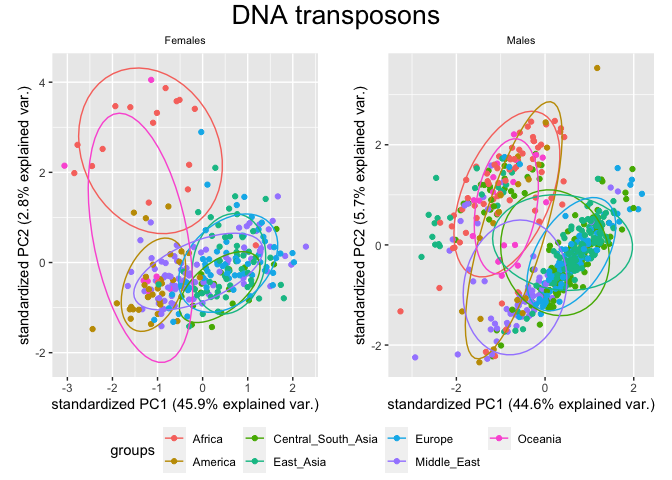
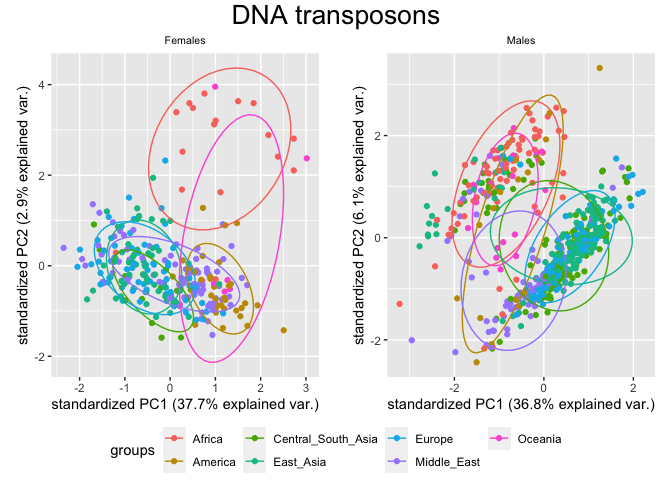
Investigation 2.0
More about GC bias
Fixed PCA in mq10HGDP

diff --git a/documentation/other-documentation/investigation.md b/documentation/other-documentation/investigation.md
@@ -19,6 +19,10 @@ library(tidyverse)
     ## ✖ dplyr::filter() masks stats::filter()
     ## ✖ dplyr::lag()    masks stats::lag()
 
+``` r
+library(cowplot)
+```
+
 ## Check the amount of unmapped reads in both the datasets
 
 We expect the amount of unmapped reads in the two datasets to be
@@ -85,6 +89,19 @@ HGDP<-read_delim("/Volumes/Temp1/rpianezza/TE/summary-HGDP/USEME_HGDP_complete_r
 ``` r
 names(HGDP)<-c("ID","pop","sex","country","type","familyname","length","reads","copynumber","batch")
 
+SGDP <- read_tsv("/Volumes/Temp2/rpianezza/SGDP/summary/USEME_SGDP_cutoff")
+```
+
+    ## Rows: 470028 Columns: 10
+    ## ── Column specification ────────────────────────────────────────────────────────
+    ## Delimiter: "\t"
+    ## chr (7): biosample, sex, pop, country, type, familyname, batch
+    ## dbl (3): length, reads, copynumber
+    ## 
+    ## ℹ Use `spec()` to retrieve the full column specification for this data.
+    ## ℹ Specify the column types or set `show_col_types = FALSE` to quiet this message.
+
+``` r
 (libraries <- read_tsv("/Volumes/Temp1/rpianezza/investigation/libraries_HGDP_by_pop.tsv", col_names = c("pop", "country", "latitude", "longitude", "PCR_free", "PCR"), skip=1) %>% select(c(pop, latitude, longitude, PCR_free, PCR)))
 ```
 
@@ -375,13 +392,77 @@ HGDP_pcr_mean_scg <- HGDP_pcr_scg %>% group_by(familyname) %>% dplyr::summarise(
 
 HGDP_mean_scg <- inner_join(HGDP_pcr_free_mean_scg, HGDP_pcr_mean_scg, by="familyname") %>% inner_join(gc, by="familyname") %>% arrange(desc(GC_content)) %>% mutate(diff = (mean_pcr-mean_pcr_free))
 
-(gc_scg <- ggplot(HGDP_mean_scg, aes(GC_content, diff))+
-  geom_point(size=1)+geom_smooth(method = "loess", color="grey", se=T) + ylab("Copynumber (PCR - PCR free)") + xlab("GC %") + ggtitle("Single copy genes copy number") + theme(plot.title = element_text(hjust = 0.5)))
+#(gc_scg <- ggplot(HGDP_mean_scg, aes(GC_content, diff))+
+  #geom_point(size=1)+geom_smooth(method = "loess", color="grey", se=T) + ylab("Copynumber (PCR - PCR free)") + #xlab("GC %") + ggtitle("Single copy genes copy number") + theme(plot.title = element_text(hjust = 0.5)))
+```
+
+``` r
+gc_scg_pcr_free <- HGDP_pcr_free_mean_scg %>% inner_join(gc, by="familyname") %>% ggplot(aes(GC_content, mean_pcr_free)) +
+  geom_point(size=1)+geom_smooth(method = "loess", color="grey", se=T) + ylab("Copynumber") + xlab("GC %") + ggtitle("PCR-free samples") + theme(plot.title = element_text(hjust = 0.5))
+
+gc_scg_pcr <- HGDP_pcr_mean_scg %>% inner_join(gc, by="familyname") %>% ggplot(aes(GC_content, mean_pcr)) +
+  geom_point(size=1)+geom_smooth(method = "loess", color="grey", se=T) + ylab("") + xlab("GC %") + ggtitle("PCR samples") + theme(plot.title = element_text(hjust = 0.5))
+
+plot_grid(gc_scg_pcr_free, gc_scg_pcr, align = "v", axis = "tb")
+```
+
+    ## `geom_smooth()` using formula = 'y ~ x'
+    ## `geom_smooth()` using formula = 'y ~ x'
+
+![](investigation_files/figure-gfm/unnamed-chunk-10-1.png)<!-- -->
+
+``` r
+scg <- function(data, id){
+  data %>% filter(type=="scg", ID==id) %>% inner_join(gc, by="familyname") %>% ggplot(aes(GC_content, copynumber)) +
+  geom_point(size=1)+geom_smooth(method = "loess", color="grey", se=T) + ylab("") + xlab("GC %") + ggtitle(paste0("Single copy genes - ", id)) + theme(plot.title = element_text(hjust = 0.5))
+}
+
+scg(HGDP, "HGDP00465")
 ```
 
     ## `geom_smooth()` using formula = 'y ~ x'
 
-![](investigation_files/figure-gfm/unnamed-chunk-9-2.png)<!-- -->
+![](investigation_files/figure-gfm/unnamed-chunk-11-1.png)<!-- -->
+
+``` r
+scg(HGDP, "HGDP00981")
+```
+
+    ## `geom_smooth()` using formula = 'y ~ x'
+
+![](investigation_files/figure-gfm/unnamed-chunk-11-2.png)<!-- -->
+
+``` r
+scg(HGDP, "HGDP01097")
+```
+
+    ## `geom_smooth()` using formula = 'y ~ x'
+
+![](investigation_files/figure-gfm/unnamed-chunk-11-3.png)<!-- -->
+
+``` r
+scg(HGDP, "HGDP00023")
+```
+
+    ## `geom_smooth()` using formula = 'y ~ x'
+
+![](investigation_files/figure-gfm/unnamed-chunk-11-4.png)<!-- -->
+
+``` r
+scg(HGDP, "HGDP00197")
+```
+
+    ## `geom_smooth()` using formula = 'y ~ x'
+
+![](investigation_files/figure-gfm/unnamed-chunk-11-5.png)<!-- -->
+
+``` r
+scg(HGDP, "HGDP01403")
+```
+
+    ## `geom_smooth()` using formula = 'y ~ x'
+
+![](investigation_files/figure-gfm/unnamed-chunk-11-6.png)<!-- -->
 
 ## Check the quality of sequencing in the two dataset
 
@@ -533,7 +614,7 @@ plot_missing(count, "Missing samples")
     ## Warning in geom_map(data = world_map, map = world_map, aes(long, lat, map_id =
     ## region), : Ignoring unknown aesthetics: x and y
 
-![](investigation_files/figure-gfm/unnamed-chunk-13-1.png)<!-- -->
+![](investigation_files/figure-gfm/unnamed-chunk-15-1.png)<!-- -->
 
 Why there is this discrepancy is still a mistery. We downloaded the
 files from the IGSR website where the alignment files are stored. Here I

diff --git a/documentation/HGDP/1. mq10-all-samples/06_HGDP_PCA.md b/documentation/HGDP/1. mq10-all-samples/06_HGDP_PCA.md
@@ -20,12 +20,12 @@ library(tidyverse)
 
 ``` r
 library("ggpubr")
-HGDPcutoff <- read_delim("/Volumes/Temp1/rpianezza/TE/summary-HGDP/USEME_HGDP_mq0_cutoff0.01.txt")
+HGDPcutoff <- read_delim("/Volumes/Temp1/rpianezza/TE/summary-HGDP/USEME_HGDP_complete_reflib6.2_mq10_batchinfo_cutoff0.01.txt")
 ```
 
-    ## Rows: 1396835 Columns: 10
+    ## Rows: 1394352 Columns: 10
     ## ── Column specification ────────────────────────────────────────────────────────
-    ## Delimiter: "\t"
+    ## Delimiter: ","
     ## chr (7): ID, Pop, sex, Country, type, familyname, batch
     ## dbl (3): length, reads, copynumber
     ## 
@@ -102,16 +102,8 @@ out_names <- c(out_abs_names, out_rel_names[!(out_rel_names %in% out_abs_names)]
 
 most_variable<-subset(HGDPcutoff, type=="te") %>% filter(familyname %in% out_names)
 
-PCA(HGDPcutoff, "All the repetitive sequences")
+PCA(TE_cutoff, "All the repetitive sequences")
 ```
-
-    ## Warning in matrix(as.vector(m$copynumber), nrow = males, ncol = len, byrow =
-    ## T): data length [932910] is not a sub-multiple or multiple of the number of rows
-    ## [553]
-
-    ## Warning in matrix(as.vector(m$country), nrow = males, ncol = len, byrow = T):
-    ## data length [932910] is not a sub-multiple or multiple of the number of rows
-    ## [553]
 
     ## Loading required package: plyr
 
@@ -214,20 +206,20 @@ satellites_names <- c("Satellite", "satellite", "SAT")
 (classification <- HGDP_class %>% mutate(class = case_when(superfamily %in% DNA_names ~ "DNA", superfamily %in% LINE_names ~ "LINE", superfamily %in% SINE_names ~ "SINE", superfamily %in% LTR_names ~ "LTR", superfamily %in% satellites_names ~ "satellite")))
 ```
 
-    ## # A tibble: 1,396,835 × 13
+    ## # A tibble: 1,394,352 × 13
     ##    ID       pop   sex   country type  famil…¹ length reads copyn…² batch super…³
     ##    <chr>    <chr> <chr> <chr>   <chr> <chr>    <dbl> <dbl>   <dbl> <chr> <chr>  
-    ##  1 HGDP000… Brah… male  Centra… scg   chr1:9…   5136 1105.   0.861 ro    <NA>   
-    ##  2 HGDP000… Brah… male  Centra… scg   chr1:1…   3064  832.   1.09  ro    <NA>   
-    ##  3 HGDP000… Brah… male  Centra… scg   chr1:1…   3239  901.   1.11  ro    <NA>   
-    ##  4 HGDP000… Brah… male  Centra… scg   chr1:1…   4035 1102.   1.09  ro    <NA>   
-    ##  5 HGDP000… Brah… male  Centra… scg   chr1:1…   2500  733.   1.17  ro    <NA>   
-    ##  6 HGDP000… Brah… male  Centra… scg   chr1:1…   2599  580.   0.894 ro    <NA>   
-    ##  7 HGDP000… Brah… male  Centra… scg   chr1:1…   2124  477.   0.899 ro    <NA>   
-    ##  8 HGDP000… Brah… male  Centra… scg   chr1:2…   6284 1527.   0.973 ro    <NA>   
-    ##  9 HGDP000… Brah… male  Centra… scg   chr1:2…   3222  889.   1.10  ro    <NA>   
-    ## 10 HGDP000… Brah… male  Centra… scg   chr1:3…   3698  868.   0.940 ro    <NA>   
-    ## # … with 1,396,825 more rows, 2 more variables: shared_with <chr>, class <chr>,
+    ##  1 HGDP000… Brah… male  Centra… scg   chr1:9…   4152 1052.   1.02  ro    <NA>   
+    ##  2 HGDP000… Brah… male  Centra… scg   chr1:9…   5136 1092.   0.852 ro    <NA>   
+    ##  3 HGDP000… Brah… male  Centra… scg   chr1:1…   3064  832.   1.09  ro    <NA>   
+    ##  4 HGDP000… Brah… male  Centra… scg   chr1:1…   3239  901.   1.11  ro    <NA>   
+    ##  5 HGDP000… Brah… male  Centra… scg   chr1:1…   4035 1102.   1.09  ro    <NA>   
+    ##  6 HGDP000… Brah… male  Centra… scg   chr1:1…   2500  733.   1.18  ro    <NA>   
+    ##  7 HGDP000… Brah… male  Centra… scg   chr1:1…   2599  580.   0.895 ro    <NA>   
+    ##  8 HGDP000… Brah… male  Centra… scg   chr1:1…   2124  477.   0.900 ro    <NA>   
+    ##  9 HGDP000… Brah… male  Centra… scg   chr1:2…   6284 1527.   0.974 ro    <NA>   
+    ## 10 HGDP000… Brah… male  Centra… scg   chr1:2…   3222  884.   1.10  ro    <NA>   
+    ## # … with 1,394,342 more rows, 2 more variables: shared_with <chr>, class <chr>,
     ## #   and abbreviated variable names ¹familyname, ²copynumber, ³superfamily
 
 This part of the code is work in progress. My idea was to give a bit of
